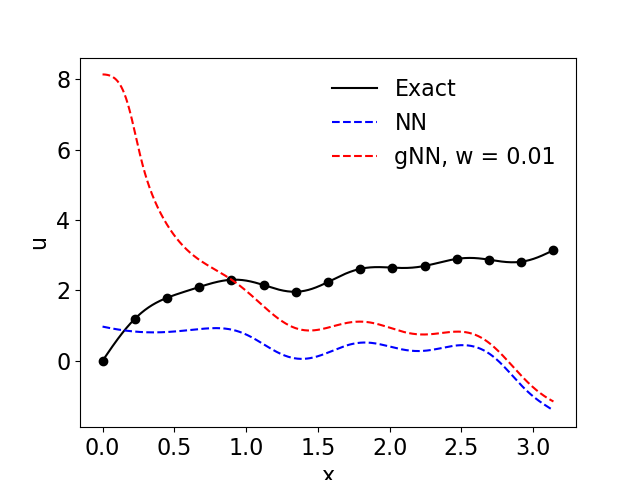
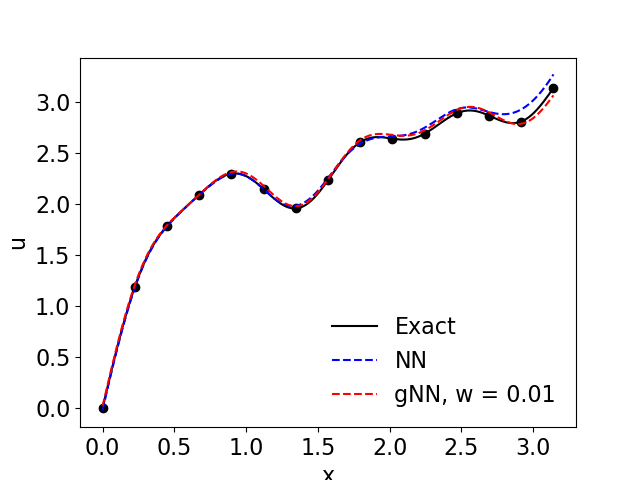
update poisson result & fig

diff --git a/poisson_1d_paddle.py b/poisson_1d_paddle.py
@@ -23,8 +23,6 @@ The Partial Differential Function is:
 '''
 
 # Analytical solution
-
-# poisson 方程解析解
 def Poisson_sol(x):
     """ The Analytical Solution of Poisson Eqution"""
     sol = x + 1 / 8 * paddle.sin(8 * x)
@@ -32,7 +30,6 @@ def Poisson_sol(x):
         sol += 1 / i * paddle.sin(i * x)
     return sol
 
-# poisson 方程解析解一阶梯度
 def Poisson_sol_gred(x):
     """ The Gredient of Poisson Eqution`s Analytical Solution """
     du = 1 + paddle.cos(8 * x)
@@ -40,7 +37,6 @@ def Poisson_sol_gred(x):
         du += paddle.cos(i * x)
     return du
 
-# pinns 
 class Poisson_gpinns(nn.Layer):
     """ PINNs & gPINNs solving 1D Poisson Equations """
     def __init__(self, x, layers, w_g=0):
@@ -69,21 +65,35 @@ class Poisson_gpinns(nn.Layer):
         return x + paddle.tanh(x) * paddle.tanh(np.pi - x) * self.fc_net(x)
     
     def poisson_sol(self, x):
-        # poisson 方程解析解
         sol = x + 1 / 8 * paddle.sin(8 * x)
         for i in range(1, 5):
             sol += 1 / i * paddle.sin(i * x)
         return sol
     
+    def poisson_sol_gred(self, x):
+        """ The Gredient of Poisson Eqution`s Analytical Solution """
+        dsol = 1 + paddle.cos(8 * x)
+        for i in range(1, 5):
+            dsol += paddle.cos(i * x)
+        return dsol
+    
+    def net_gred(self, x):
+        x.stop_gradient = False
+        u = self.fc_net(x)
+        du = paddle.grad(u, x, retain_graph=True, create_graph=True)[0]
+        return du
+    
     def loss(self, x):
         """ L = L_f + w_g * L_g """
-        loss = paddle.mean(paddle.square(self.pde(x))) + self.w_g * paddle.mean(paddle.square(self.pde_g(x))) 
+        loss = paddle.mean(paddle.square(self.pde(x))) + self.w_g * paddle.mean(paddle.square(self.pde_g(x))) \
+        + paddle.mean(paddle.square(self.fc_net(x) - self.poisson_sol(x))) \
+        + paddle.mean(paddle.square(self.net_gred(x) - self.poisson_sol_gred(x)))
         return loss
     
     def pde(self, x):
         """ loss PDE """
         x.stop_gradient = False
-        u = self.forward(x)
+        u = self.fc_net(x)
         du_x = paddle.grad(u, x, retain_graph=True, create_graph=True)[0]
         du_xx = paddle.grad(du_x, x, retain_graph=True, create_graph=True)[0]
         
@@ -96,9 +106,11 @@ class Poisson_gpinns(nn.Layer):
     def pde_g(self, x):
         """ The gradient of PDE """
         x.stop_gradient = False
-        u = self.pde(x)
-        du_x = paddle.grad(u, x, retain_graph=True, create_graph=True)[0]
-        return  - du_x
+        # u = self.fc_net(x)
+        du_xx = self.pde(x)
+        du_xxx = paddle.grad(du_xx, x, retain_graph=True, create_graph=True)[0]
+            
+        return  - du_xxx
     
     def train(self, epochs):
         """ Train """
@@ -107,7 +119,7 @@ class Poisson_gpinns(nn.Layer):
         loss_sum = 0
         loss_alt = []
         for epoch in range(epochs):
-            loss = paddle.mean(paddle.square(self.loss(x)))
+            loss = self.loss(x)
             loss_alt.append([loss])
             loss_sum += loss
             loss.backward()
@@ -137,9 +149,6 @@ class Poisson_gpinns(nn.Layer):
         return U, dU_dX
 
 
-
-
-
 if __name__ == '__main__':
     
     # DATA
@@ -158,12 +167,12 @@ if __name__ == '__main__':
     paddle.device.set_device('gpu')
     
     # train pinns
-    print(' Train PINNs ... ')
+    print(' #################### Train PINNs #################### ')
     model_pinns = (Poisson_gpinns(x, [1, 20, 20, 20, 1]))
     model_pinns.train(20000)
     
     # train gpinns
-    print(' Train gPINNs ... ')
+    print(' #################### Train gPINNs #################### ')
     model_gpinns = (Poisson_gpinns(x, [1, 20, 20, 20, 1], w_g = 0.01))
     model_gpinns.train(20000)
     
